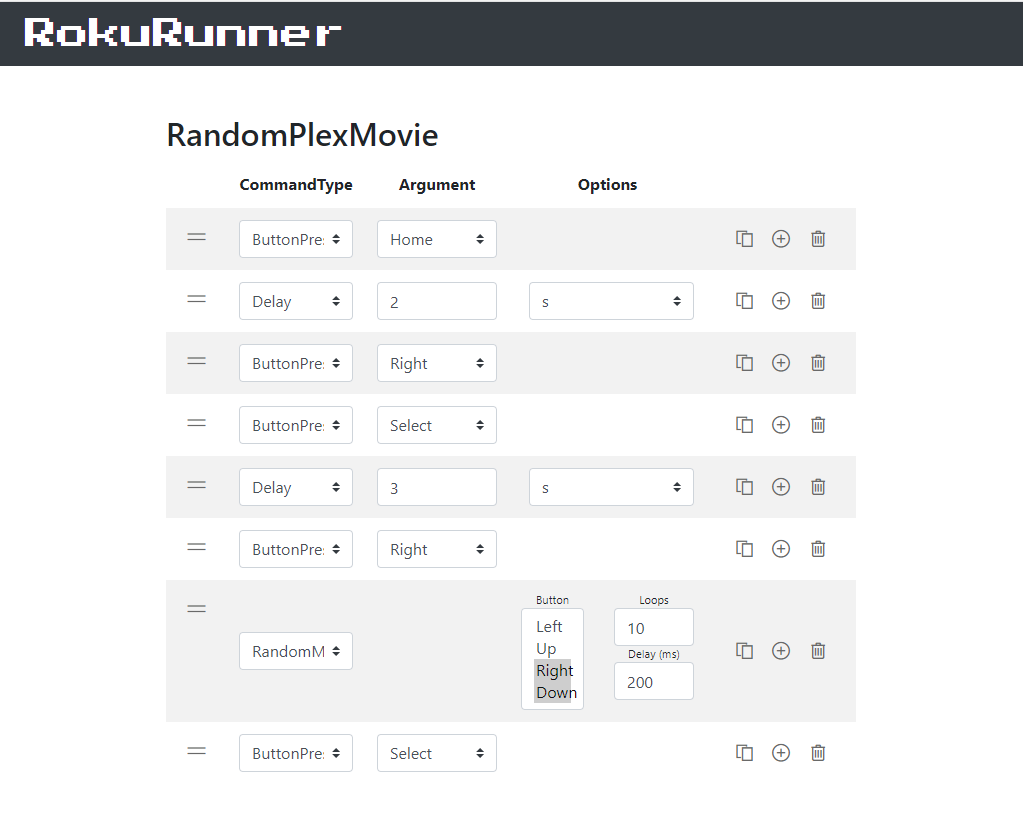
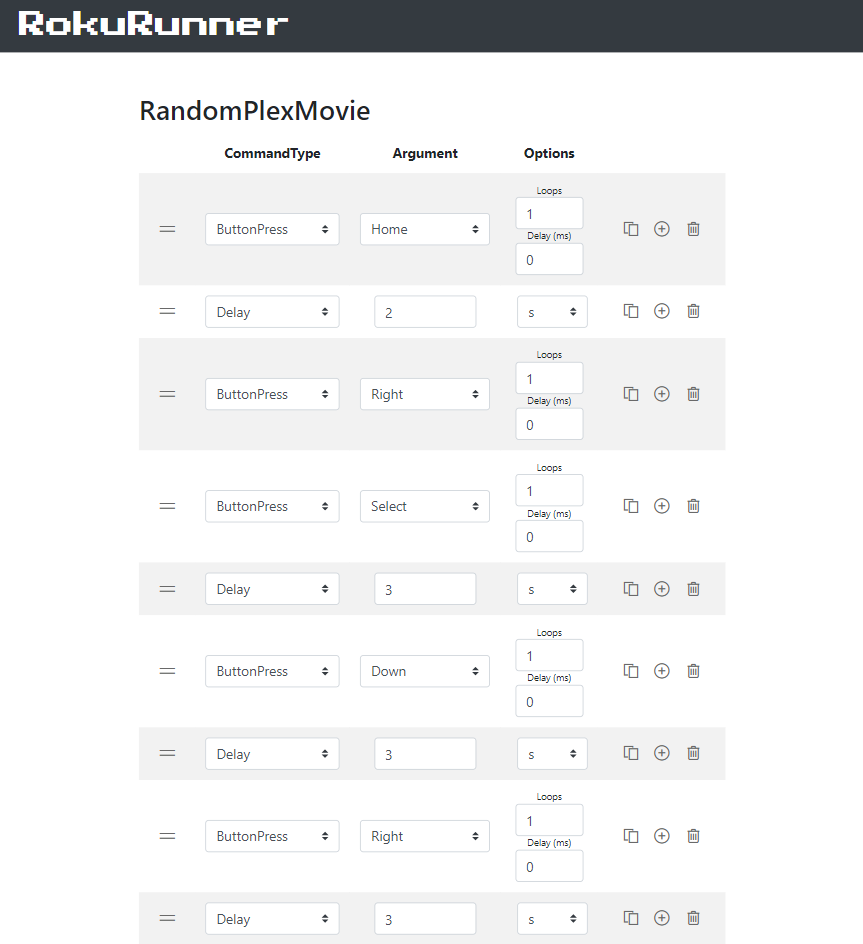
added loop and delay opts to ButtonPress

diff --git a/templates/runner_edit.html b/templates/runner_edit.html
@@ -53,7 +53,7 @@
         {
             visibility: hidden;
         }
-        .rmove-opts
+        .xtra-opts
         {
             font-size: 0.7em;
         }
@@ -99,7 +99,7 @@
                                 <b-form-select :options="delay_unit_opts" v-model='row.item.delay_unit' v-on:change="edited = true;" class="ml-2"/>
                             </div>
                             <div v-else-if="row.item.cmd_type === 'RandomMove'" class="d-flex justify-content-center">
-                                <div class="row rmove-opts">
+                                <div class="row xtra-opts">
                                     <div class="col">
                                         Button
                                         <b-form-select multiple :options="randmove_btn_opts" v-model="row.item.randmove_btns" v-on:change="edited = true;"></b-form-select>
@@ -112,6 +112,20 @@
                                         <div>
                                             Delay (ms)
                                             <b-form-input v-model="row.item.randmove_delay" type="number" v-on:change="edited = true;" style="width: 80px;"></b-form-input>
+                                        </div>
+                                    </div>
+                                </div>
+                            </div>
+                            <div v-else-if="row.item.cmd_type === 'ButtonPress'" class="d-flex justify-content-center">
+                                <div class="row xtra-opts">
+                                    <div class="col">
+                                        <div>
+                                            Loops
+                                            <b-form-input v-model="row.item.btnpress_loops" type="number" v-on:change="edited = true;" style="width: 80px;"></b-form-input>
+                                        </div>
+                                        <div>
+                                            Delay (ms)
+                                            <b-form-input v-model="row.item.btnpress_delay" type="number" v-on:change="edited = true;" style="width: 80px;"></b-form-input>
                                         </div>
                                     </div>
                                 </div>
@@ -174,7 +188,7 @@
             },
             directives: { sortable },
             data: {
-                fields: [{ key: "drag", thClass: 'invisible' }, 
+                fields: [{ key: "drag", thClass: 'invisible', tdClass: 'align-middle' }, 
                     { key: "cmd_type", label: "CommandType", tdClass: 'text-center align-middle', thClass: 'text-center' },     
                     { key: "arg", label: "Argument", tdClass: 'text-center align-middle', thClass: 'text-center' },
                     { key: "opts", label: "Options", tdClass: 'text-center align-middle', thClass: 'text-center' },
@@ -187,6 +201,8 @@
                     { key: "randmove_loops", thClass: 'd-none', tdClass: 'd-none' },
                     { key: "randmove_delay", thClass: 'd-none', tdClass: 'd-none' },
                     { key: "randmove_btns", thClass: 'd-none', tdClass: 'd-none' },
+                    { key: "btnpress_loops", thClass: 'd-none', tdClass: 'd-none' },
+                    { key: "btnpress_delay", thClass: 'd-none', tdClass: 'd-none' },
                     { key: "action", thClass: 'd-none action-col', tdClass: 'align-middle action-col' },
                     
                     ],
@@ -245,7 +261,7 @@
                 // returns a new default command
                 getDefaultCmd()
                 {
-                    return { cmd_type: 'ButtonPress', btnpress_val: 'Left', delay_val: '300', delay_unit: 'ms', randmove_loops: 1, randmove_delay: "100", randmove_btns: this.randmove_btn_opts, id: ++this.cmd_idx};
+                    return { cmd_type: 'ButtonPress', btnpress_val: 'Left', delay_val: '300', delay_unit: 'ms', btnpress_loops:1,  randmove_loops: 1, btnpress_delay: "0", randmove_delay: "100", randmove_btns: this.randmove_btn_opts, id: ++this.cmd_idx};
                 },
                 // since fields are needed for b-table, have to import all data to local objects. There's gotta be a better way to do this
                 importCmds(jsondat)
@@ -262,6 +278,8 @@
                         if (cmd.cmd_type == 'ButtonPress')
                         {
                             cmd.btnpress_val = val;
+                            cmd.btnpress_loops = opts.btnpress_loops;
+                            cmd.btnpress_delay = opts.btnpress_loops;
                         } else if (cmd.cmd_type == 'Delay')
                         {
                             cmd.delay_val = val; 
@@ -294,6 +312,8 @@
                         if (cmds[i].cmd_type == 'ButtonPress')
                         {
                             rval = cmds[i].btnpress_val;
+                            opts['btnpress_loops'] = cmds[i].btnpress_loops;
+                            opts['btnpress_delay'] = cmds[i].btnpress_delay;
                         } else if (cmds[i].cmd_type == 'Delay')
                         {
                             rval = cmds[i].delay_val;

diff --git a/rokurunner.py b/rokurunner.py
@@ -127,7 +127,15 @@ def exec_runner(dev, runner):
                 sleep(delay)
             elif cmd.cmd_type == CommandTypes.ButtonPress.name:
                 url = f'http://{dev.ip}:8060/keypress/{cmd.val}'
-                r = s.post(url)
+                
+                loops = int(cmd.opts['btnpress_loops'])
+                delay = float(cmd.opts['btnpress_delay']) / 1000
+
+                for i in range(loops):
+                    r = s.post(url)
+                    if delay > 0:
+                        sleep(delay)
+                        
             elif cmd.cmd_type == CommandTypes.HttpRequest.name:
                 s.post(cmd.arg)
             elif cmd.cmd_type == CommandTypes.CharLiteral.name:

diff --git a/README.md b/README.md
@@ -65,7 +65,9 @@ Visit http://localhost:8900 which presents you with the main interface.
   
   Command Types:
   - ButtonPress
-    - Set ButtonPress type in the argument dropdown. Note: All button types are exposed, but some Roku devices don't support certain button press types (e.g. PowerOn, PowerOff, InputHMDI1, etc)
+    - Set ButtonPress type in the argument dropdown. Note: All button types are exposed, but some Roku devices don't support certain button press types (e.g. PowerOn, PowerOff, InputHMDI1, etc). Optional arguments:
+      - Loops: How many times to execute this ButtonPress (default 1)
+      - Delay (ms): If running multiple Loops, set the delay in milliseconds between each Loop (default 0)
   - Delay
     - Set a delay (ms) in the argument field
   - HttpRequest
